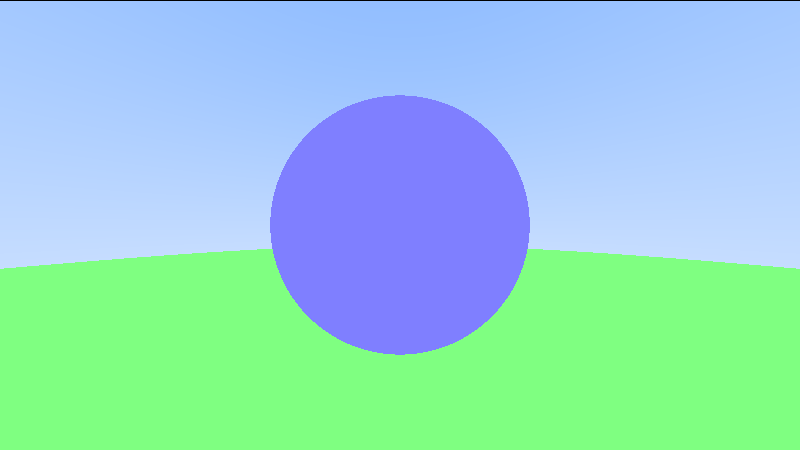
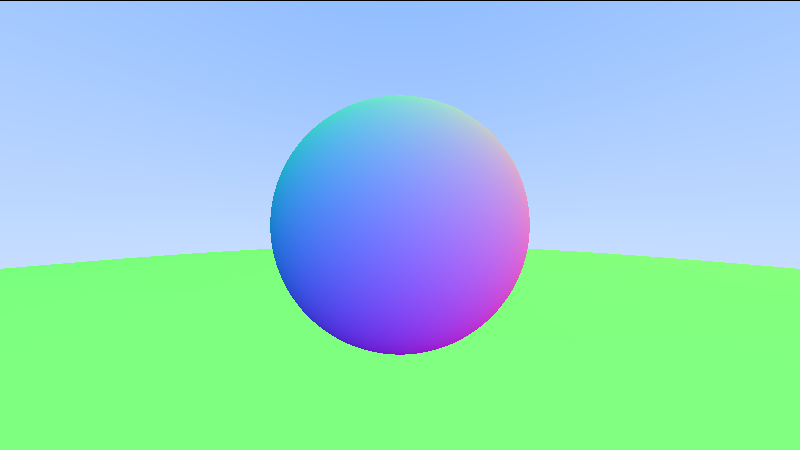
fix color

Changed region(s): [[0.3125, 0.1867, 0.6875, 0.8089]]

diff --git a/src/raytraycing/sphere.rs b/src/raytraycing/sphere.rs
@@ -18,7 +18,7 @@ impl Sphere {
 }
 
 impl Hittable for Sphere {
-    fn hit(&self, r: &ray::Ray, t_min: f32, t_max: f32, rec: &HitRecord) -> Option<HitRecord> {
+    fn hit(&self, r: &ray::Ray, t_min: f32, t_max: f32) -> Option<HitRecord> {
         let oc = r.origin() - self.center;
 
         let a = r.direction().length_squared();
@@ -40,13 +40,13 @@ impl Hittable for Sphere {
             }
         }
 
-        let outward_normal = (r.at(rec.t) - self.center) / self.radius;
         let mut result = HitRecord {
-            p: r.at(rec.t),
-            normal: (rec.p - self.center) / self.radius,
+            p: r.at(root),
+            normal: (r.at(root) - self.center) / self.radius,
             t: root,
             front_face: false,
         };
+        let outward_normal = (r.at(root) - self.center) / self.radius;
         result.set_face_normal(r, &outward_normal);
 
         return Some(result);

diff --git a/src/raytraycing/ray.rs b/src/raytraycing/ray.rs
@@ -1,5 +1,5 @@
 use super::color::Color;
-use super::hittable::{HitRecord, Hittable};
+use super::hittable::Hittable;
 use super::hittable_list::HittableList;
 use super::point3::Point3;
 use super::vec3::{unit_vector, Vec3};
@@ -23,13 +23,13 @@ impl Ray {
     pub fn direction(self) -> Vec3 {
         return self.dir;
     }
-    pub fn at(self, t: f32) -> Point3 {
+    pub fn at(&self, t: f32) -> Point3 {
         return self.orig + self.dir * t;
     }
 }
 
 pub fn ray_color(ray: &Ray, world: &HittableList) -> Color {
-    match world.hit(ray, 0.0, f32::INFINITY, &HitRecord::default()) {
+    match world.hit(ray, 0.0, f32::INFINITY) {
         Some(temp_rec) => {
             return (temp_rec.normal + Color::new(1.0, 1.0, 1.0)) * 0.5;
         }

diff --git a/src/raytraycing/hittable_list.rs b/src/raytraycing/hittable_list.rs
@@ -22,14 +22,13 @@ impl HittableList {
 }
 
 impl Hittable for HittableList {
-    fn hit(&self, r: &Ray, t_min: f32, t_max: f32, rec: &HitRecord) -> Option<HitRecord> {
+    fn hit(&self, r: &Ray, t_min: f32, t_max: f32) -> Option<HitRecord> {
         let mut result: HitRecord = HitRecord::default();
-        let temp_rec = rec;
         let mut hit_anything = false;
         let mut closest_so_far = t_max;
 
         for object in self.objects.iter() {
-            match object.hit(r, t_min, closest_so_far, &temp_rec) {
+            match object.hit(r, t_min, closest_so_far) {
                 Some(hit_record) => {
                     hit_anything = true;
                     closest_so_far = hit_record.t;

diff --git a/src/raytraycing/hittable.rs b/src/raytraycing/hittable.rs
@@ -33,5 +33,5 @@ impl Default for HitRecord {
 }
 
 pub trait Hittable {
-    fn hit(&self, r: &Ray, t_min: f32, t_max: f32, rec: &HitRecord) -> Option<HitRecord>;
+    fn hit(&self, r: &Ray, t_min: f32, t_max: f32) -> Option<HitRecord>;
 }
